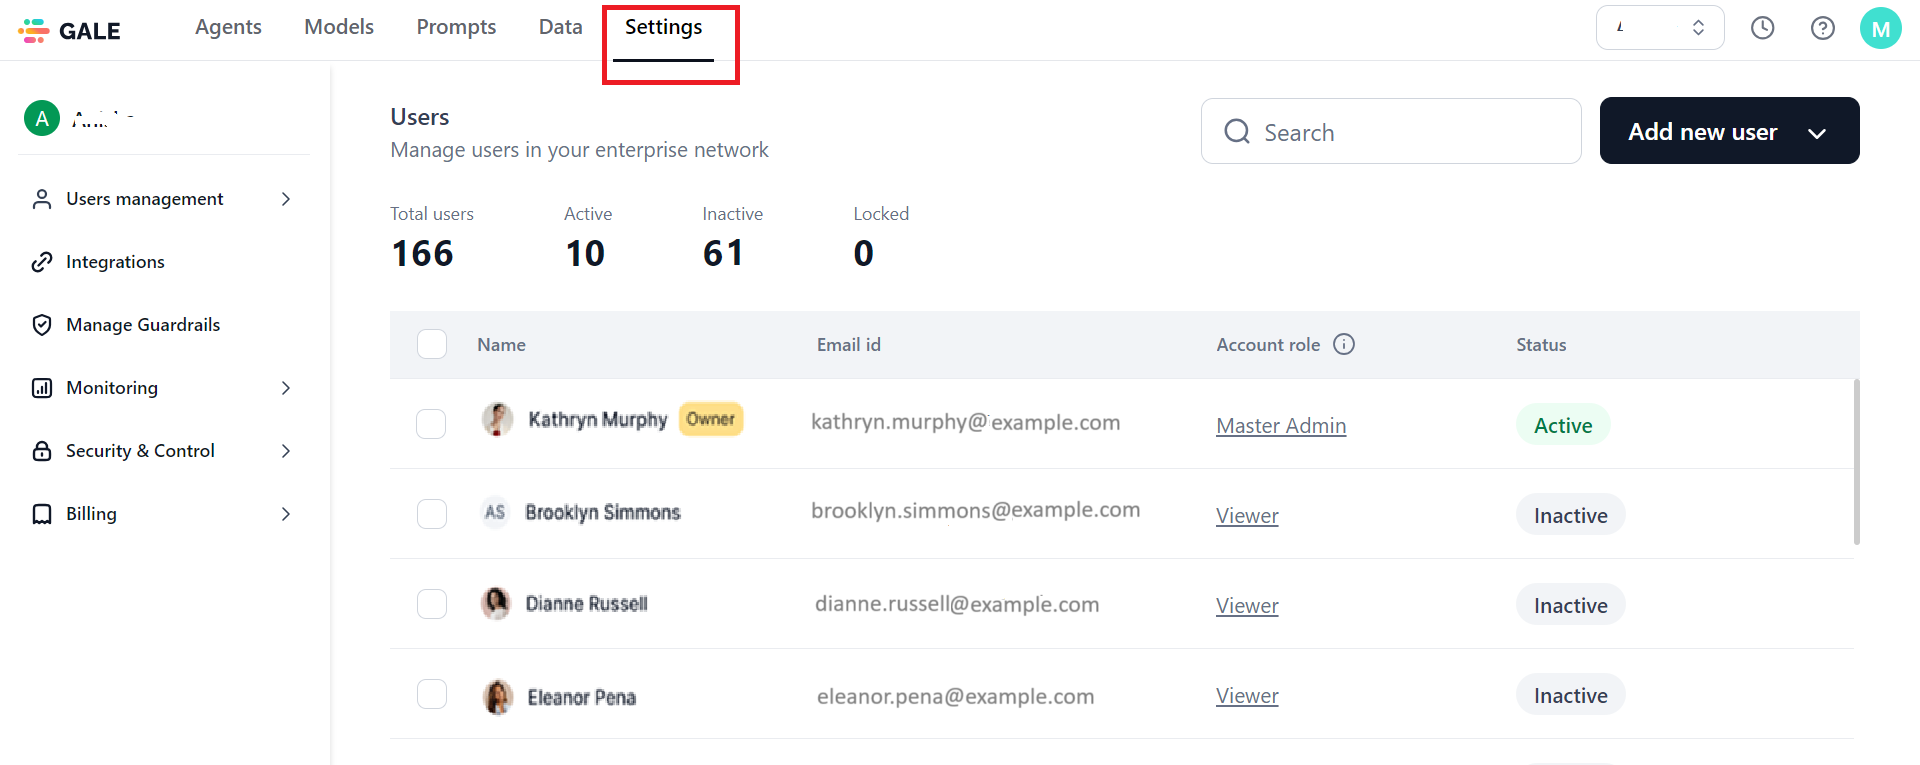
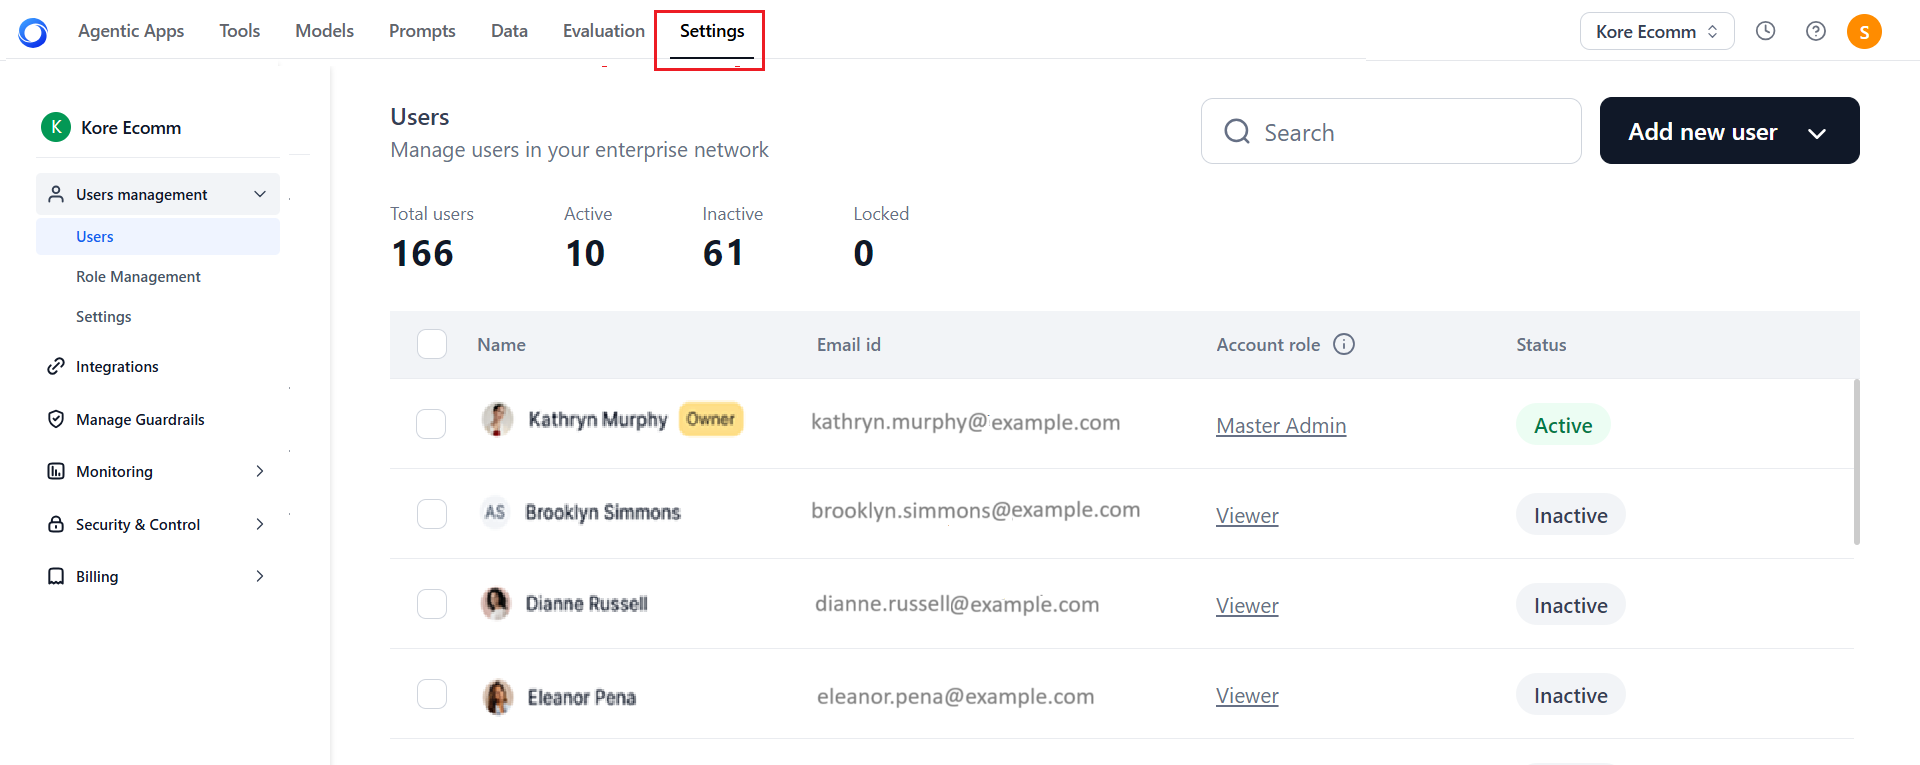
commit: edits

diff --git a/docs/agent-platform/settings/user-management/overview.md b/docs/agent-platform/settings/user-management/overview.md
@@ -15,12 +15,12 @@ This [Users](./users.md){:target="_blank"} page provides detailed instructions a
 
 **Users Management** streamlines user administration and enhances operational efficiency. 
 
-It also supports various administrative features influenced by the roles and permissions assigned at the account or agent level. This includes actions you can perform on both external and existing Agent Platform users:
+It also supports various administrative features influenced by the roles and permissions assigned at the account or tool level. This includes actions you can perform on both external and existing users:
 
 - **System Roles**: Predefined roles with default permissions for basic system functionality. [Learn more](./role-management.md/#manage-system-roles){:target="_blank"}.
 - **Custom Roles**: User-defined roles tailored to specific needs with customized access definitions for module-wise permissions. [Learn more](./role-management.md/#manage-custom-roles){:target="_blank"}.
 
-For example, a *Master Admin* role is assigned by default to the account owner. Similarly, an *Agent Admin* role is assigned to a user who creates a tool and has complete control over it.
+For example, a *Master Admin* role is assigned by default to the account owner. Similarly, a *Tool Admin* role is assigned to a user who creates a tool and has complete control over it.
 
 **Users Management** operates on two distinct levels discussed [here](../settings-overview.md/#levels-of-users-management){:target="_blank"}.
 

diff --git a/docs/agent-platform/getting-started/introduction.md b/docs/agent-platform/getting-started/introduction.md
@@ -47,7 +47,7 @@ The Platform's capabilities are powered by its key components that work together
 
 * **No-Code Development**: Accelerate AI application development through structured no-code tooling. Business teams can actively participate alongside technical staff, accelerating time to market and fostering collaboration.
 
-* **Extension SDKs**: The platform offers SDKs all the key components like for Agents, Tools, RAG, and Traces, enabling teams to quickly build custom components across the entire AI workflow that are compatible with the platform's security and governance frameworks.
+* **Extension SDKs**: The platform offers SDKs all the key components like for Agentic Apps, Tools, RAG, and Traces, enabling teams to quickly build custom components across the entire AI workflow that are compatible with the platform's security and governance frameworks.
 
 * **Enterprise-Grade CI/CD**: Deploy and manage AI applications with industrial-strength processes supporting multiple environments and granular versioning.
 
